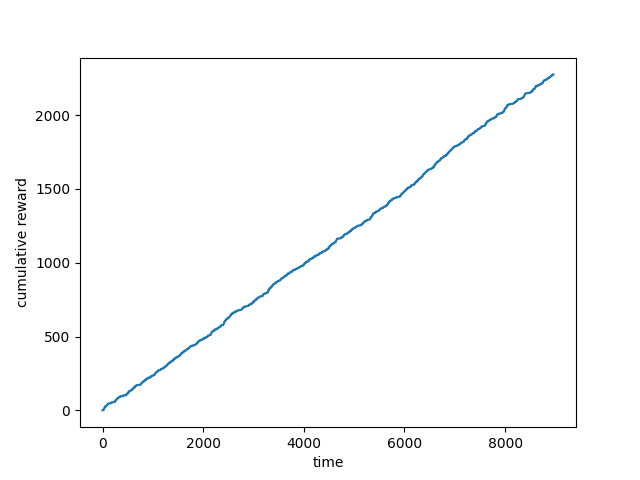
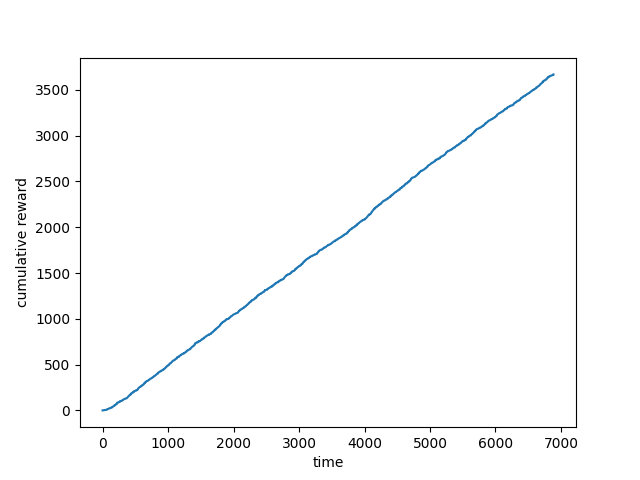
code refactor

diff --git a/cache.py b/cache.py
@@ -65,7 +65,7 @@ class TraceSrc(object):
 
 
 class CacheSim(object):
-    def __init__(self, cache_size, policy, action_space, state_space):
+    def __init__(self, cache_size, policy, action_space, state_space, replacement_policies):
         # invariant
         '''
         This is the simulater for the cache.
@@ -89,7 +89,7 @@ class CacheSim(object):
         self.cache = defaultdict(list)  # requested items with caching
         self.cache_pq = []
         # self.lru_cache = LRUCache(self.cache_size)
-        self.agent = ReplacementAgent(capacity=self.cache_size, policies=["LRU","LFU","FIFO"])
+        self.agent = ReplacementAgent(capacity=self.cache_size, policies=replacement_policies)
         self.cache_remain = self.cache_size
         self.count_ohr = 0
         self.count_bhr = 0
@@ -258,7 +258,7 @@ class CacheEnv():
     * REFERENCE *
     """
 
-    def __init__(self, seed=42):
+    def __init__(self, replacement_policies, seed=42):
         self.seed(seed)
         self.cache_size = cache_size_default
 
@@ -275,7 +275,8 @@ class CacheEnv():
         self.sim = CacheSim(cache_size=self.cache_size, \
                             policy='lru', \
                             action_space=self.action_space, \
-                            state_space=self.observation_space)
+                            state_space=self.observation_space,
+                            replacement_policies=replacement_policies)
 
         # reset environment (generate new jobs)
         self.reset(1, 2)

diff --git a/main.py b/main.py
@@ -2,7 +2,7 @@ from cache import CacheEnv
 import matplotlib.pyplot as plt
 import numpy as np
 from algorithms.semi_gradient_sarsa_algorithm import semi_gradient_sarsa
-from algorithms.LRU import lru
+from algorithms.Deterministic import always_evict
 from approximations.linear_approximation import LinearApproximation
 from sklearn.model_selection import train_test_split
 
@@ -34,24 +34,24 @@ def semi_gradient_sarsa_with_linear_approx(env, train, test):
     rewards, bhr = semi_gradient_sarsa(env, gamma, alpha, L, epsilon, test, actions)
     get_metrics(test, 0, rewards, bhr, "experiments/graphs/semi_gradient_sarsa.png")
 
-def run_lru(env, train, test):
-    lru(env, train)
-    rewards, bhr = lru(env, test)
+def run_always_evict(env, train, test):
+    always_evict(env, train)
+    rewards, bhr = always_evict(env, test)
     get_metrics(test, 0, rewards, bhr, "experiments/graphs/lru.png")
 
 if __name__ == "__main__":
-    env = CacheEnv()
     num_episodes = 20
     episodes = np.arange(num_episodes)
     train, test = train_test_split(episodes, test_size=0.2)
-    #run_lru(env, train, test)
+
+    policies = ["LFU", "LRU"]
+    env = CacheEnv(policies)
     semi_gradient_sarsa_with_linear_approx(env, train, test)
 
+    for policy in policies:
+        env = CacheEnv([policy])
+        print("Policy used: ", policy)
+        semi_gradient_sarsa_with_linear_approx(env, train, test)
 
-
-
-
-
-
-
-
+    env = CacheEnv(["LRU"])
+    run_always_evict(env, train, test)

diff --git a/replacement_agent.py b/replacement_agent.py
@@ -12,11 +12,12 @@ class ReplacementAgent:
         self.policies = policies
         self.experts = []
         self.num_experts = len(policies)
-        self.experts.append(LRUCache(capacity))
         self.current_expert = 0
         self.hit_reward = 1
         self.miss_reward = -0.5
         self.epsilon = 0.1
+        if "LRU" in policies:
+            self.experts.append(LRUCache(capacity))
         if "LFU" in policies:
             self.experts.append(LFUCache(capacity))
         if "FIFO" in policies:
@@ -33,10 +34,10 @@ class ReplacementAgent:
                 self.reward[index] = self.miss_reward
             else:
                 self.reward[index] = self.hit_reward
-        self.weight_update()
+        if(self.num_experts > 1):
+            self.weight_update()
 
     def remove(self):
-        #print(self.weights)
         current_expert = int(np.random.choice(np.arange(self.num_experts), 1, p=self.weights/np.sum(self.weights)))
         key ,val = self.experts[current_expert].remove()
         for i in range(self.num_experts):

diff --git a/algorithms/Deterministic.py b/algorithms/Deterministic.py
@@ -1,0 +1,38 @@
+import numpy as np
+
+def always_evict(env, episodes):
+    bhr_metric = {}
+    rewards = {}
+    for i in episodes:
+        env.reset(i)
+        done = False
+        episode_rewards = []
+        while not done:
+            act = 1
+            obs, reward, done, info = env.step(act)
+            episode_rewards.append(reward)
+            if done:
+                bhr_metric[i] = info[2]
+        rewards[i] =  episode_rewards
+    return rewards, bhr_metric
+
+def random_eviction(env, episodes):
+    bhr_metric = {}
+    rewards = {}
+    for i in episodes:
+        env.reset(i)
+        done = False
+        episode_rewards = []
+        while not done:
+            act = np.random.choice(np.arange(2), p=[0.8, 0.2])
+            obs, reward, done, info = env.step(act)
+            episode_rewards.append(reward)
+            if done:
+                bhr_metric[i] = info[2]
+        rewards[i] =  episode_rewards
+    return rewards, bhr_metric
+
+
+
+
+
